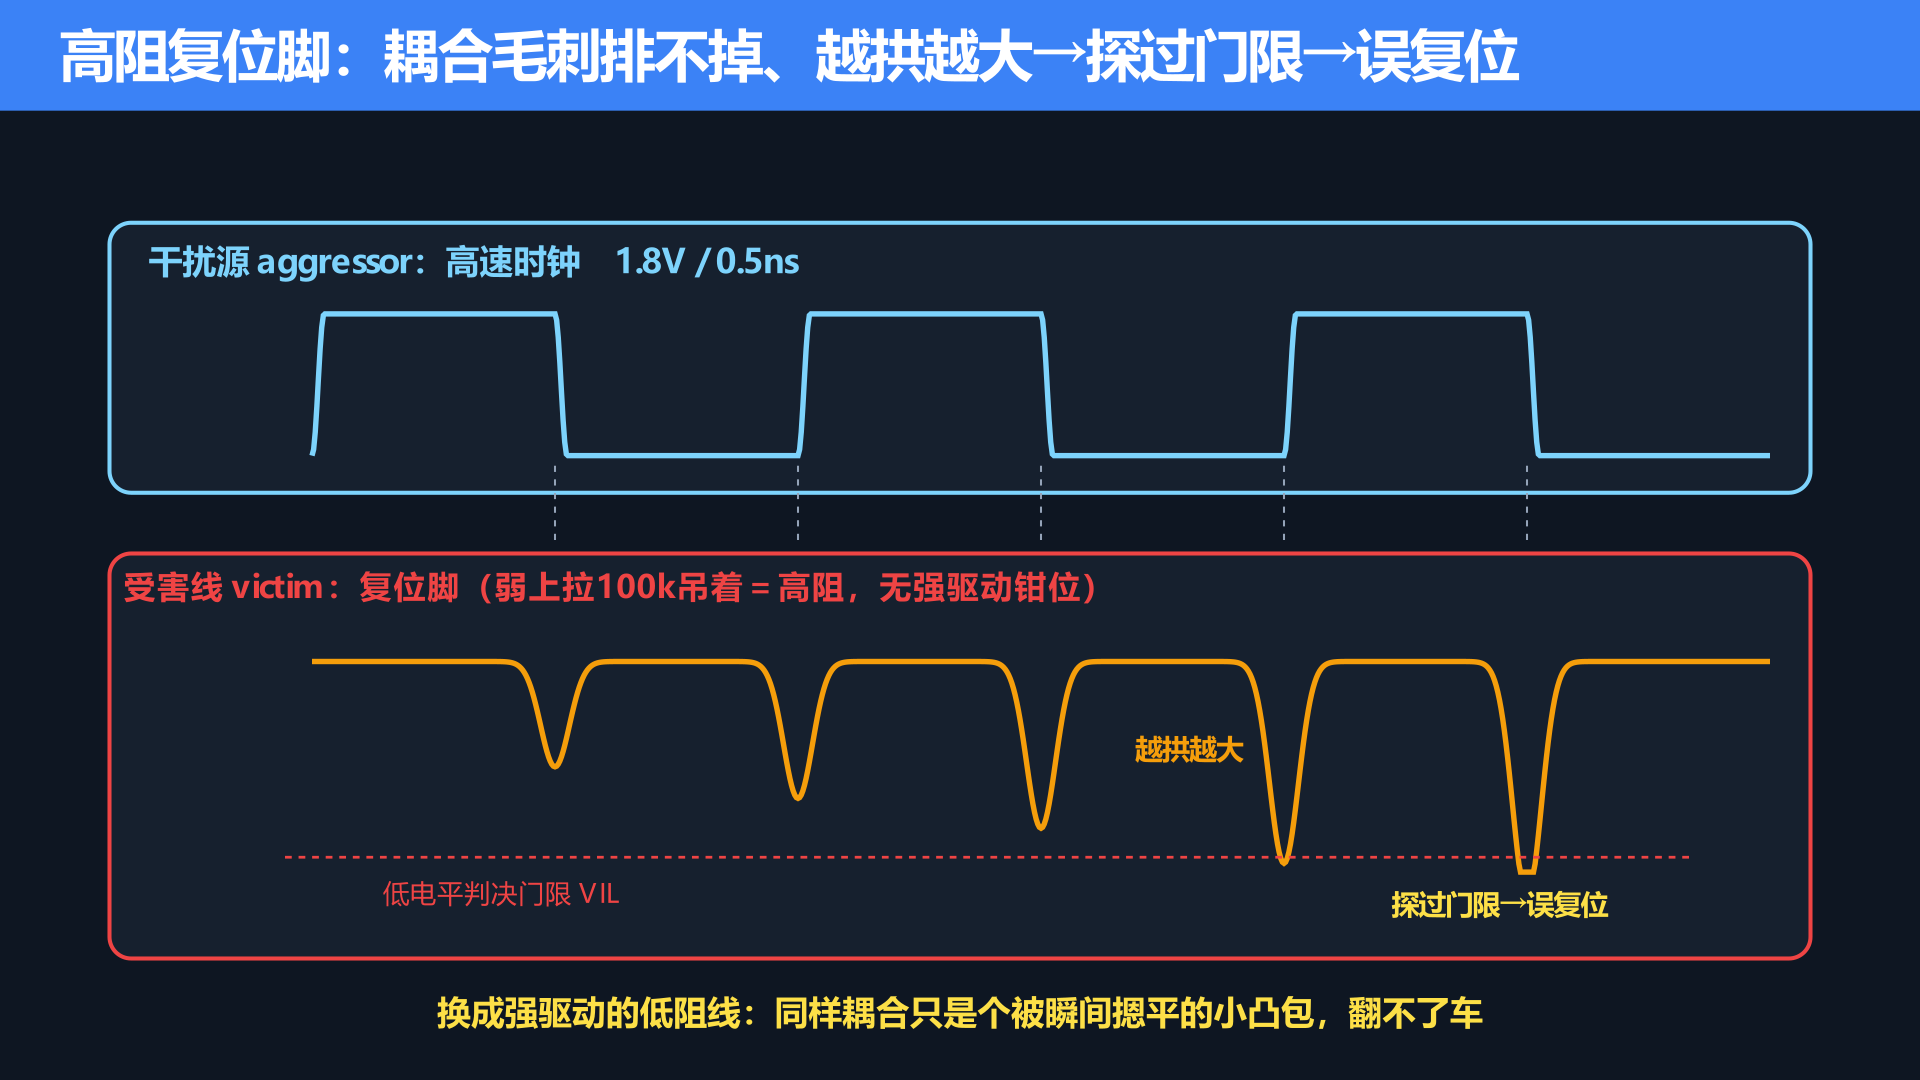
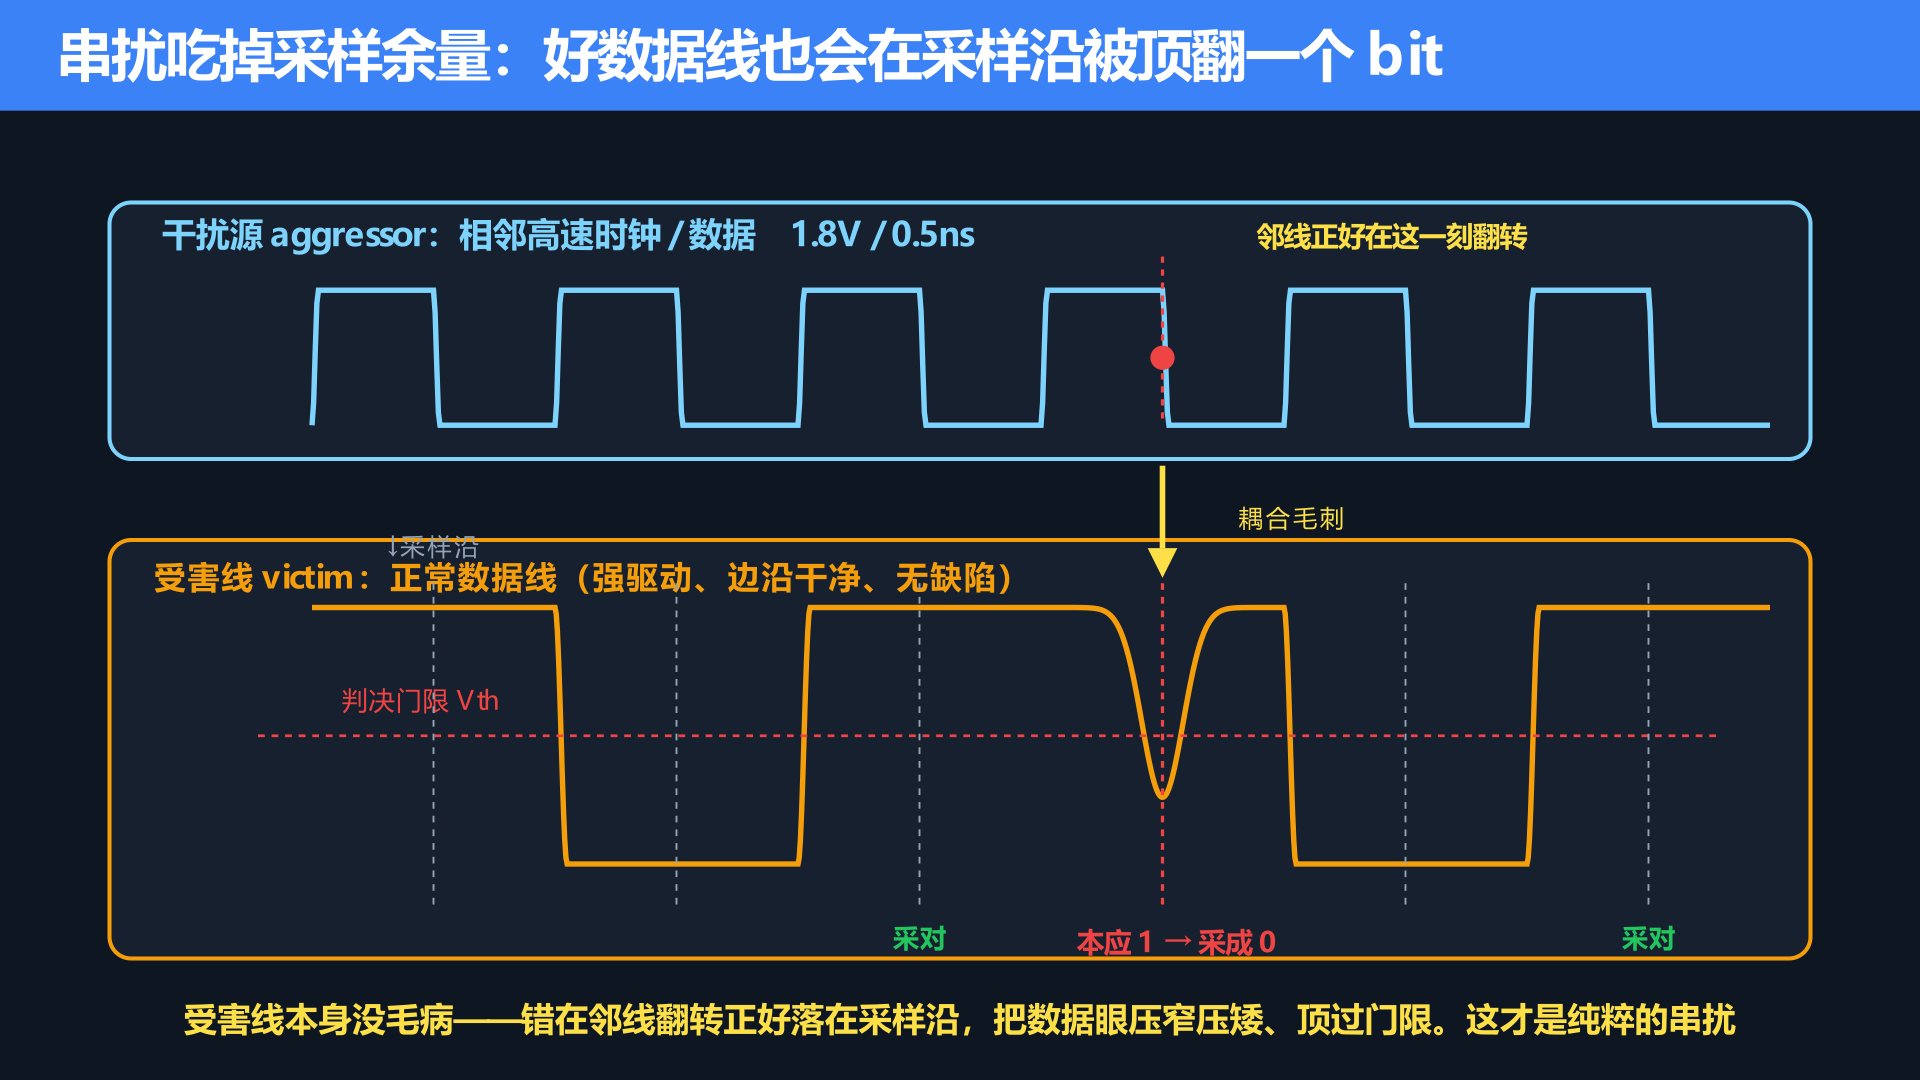
第30篇串扰：开篇例子改为纯串扰误码（正常数据线在采样沿被邻线串翻一个bit），重画图1
原例子（高阻复位脚被串扰误触发）会让读者觉得是复位线自身高阻缺陷、而非串扰问题。
改为受害线本身强驱动无缺陷、只因邻线翻转正好落在采样沿、把数据眼压窄压矮顶过门限而采错一个bit——
无需受害线有缺陷的纯串扰故障，教学上更干净、且衔接第29边沿带宽与第31眼图。

Copilot-Session: f9104e14-e017-4b16-8929-b29a5b9ca02c

diff --git a/articles/30.md b/articles/30.md
@@ -1,20 +1,20 @@
 ---
-title: 串扰 crosstalk：旁边那根线一翻转，我的静态控制线为什么突然误触发？——噪声是怎么"串"过来的
+title: 串扰 crosstalk：旁边那根线一翻转，我这条好好的高速数据线为什么偶发误码？——噪声是怎么"串"过来的
 outline: [2,3]
 ---
 
-# 串扰 crosstalk：旁边那根线一翻转，我的静态控制线为什么突然误触发？——噪声是怎么"串"过来的
+# 串扰 crosstalk：旁边那根线一翻转，我这条好好的高速数据线为什么偶发误码？——噪声是怎么"串"过来的
 
 <div class="article-meta"><span class="badge">📘 模块三 · 信号完整性 SI · 串扰 crosstalk</span><span class="badge">⏱ 约 18 分钟</span><span class="badge qr">🔧 含工程师速查</span></div>
 
 
-产线上一块板子，一条**复位信号**（平时应该老老实实待在高电平不动）**时不时被莫名其妙拉低**，板子偶发复位，几百次里蹦一次，抓都难抓。工程师先怀疑复位芯片、怀疑电源掉电、怀疑按键抖动，一路查下来，**这条复位线自己的信号干干净净、电源也稳**，找不出毛病。
+产线上一块板子，一条**高速数据线**（比如并行总线里的一位、或某个接口的数据脚）**偶发误码**：功能时好时坏，重传就过，几万个包里蹦一次错，抓都难抓。工程师先怀疑时钟、怀疑电源、怀疑接收芯片，一路查下来，**这条数据线自己的信号干干净净——边沿利落、高低电平都到位、电源也稳**，找不出毛病。
 
-最后拿示波器把复位线和它**旁边并排走了 8cm** 的一条**高速时钟线**一起抓——真相大白：**每次那条时钟线翻转（摆幅 1.8V、上升时间 0.5ns），复位线上就同步跳出一个毛刺。** 而关键的一步在这：这条复位脚**只用一个很弱的上拉电阻（比如 100kΩ）吊在高电平**，甚至上拉根本没焊——它是一个**高阻节点，没有任何强驱动去"摁住"它的电压**。正因为高阻，时钟每翻转耦合过来的那点电荷**排不掉、越拱越大**，在复位脚上叠成一个又大又拖的毛刺，**一路探到判决门限以下**；而复位芯片是个对电平/边沿很敏感的异步输入，被这一下骗到，就误判成"该复位了"。
+最后拿示波器把这条数据线和它**旁边并排走了 8cm** 的一条**高速时钟线**一起抓，还把触发对到接收端的采样时钟沿——真相大白：**每次那条时钟线翻转（摆幅 1.8V、上升时间 0.5ns），数据线上就同步跳出一个毛刺；而只有当这个毛刺恰好落在采样的那一刻、数据线自己也在跳变、时序余量最紧的那一拍，接收端才采错一个 bit。** 时钟不在采样窗口翻转时，毛刺出现在别处、采样点安然无恙，就不报错——这就是它**偶发、难抓**的根本原因。
 
-**这里要破一个常见的误解：不是"复位线判决余量太窄"——恰恰相反，1.8V 逻辑的高电平余量其实很宽**（低电平判决门限 VIL 约 0.6V，也就是说电平得从 1.8V 掉过 1.2V 才会被判成低）。**一条被强驱动、低阻输出的普通信号线，就算旁边串来同样的耦合，也只是个瞬间被驱动器摁平的小凸包，翻不了车。** 真正会中招的，恰恰是复位、片选、中断这类**平时高阻、只靠弱上拉吊着、又对毛刺敏感**的控制线——**高阻**让毛刺长得大、拖得久，**敏感**让它一有机可乘就误动作。
+**这里要说清一件事：这次受害线本身没有任何缺陷**——它是被强驱动的低阻线，边沿干净、电平到位。它之所以出错，纯粹是因为**邻线翻转的那一下，把采样点的噪声余量吃掉了**：串扰把数据线的边沿忽而推早、忽而推晚（时序抖动），又在采样点附近叠了个电压毛刺（电平余量变小）——**数据眼在采样沿被又压窄、又压矮**，赶上最紧的那一拍，采到的就是错的。**这才是串扰最本色的样子：不需要受害线有毛病，只要它跟一条高速线并排跑得够长、边沿够陡，一条好线也会被串出错来。**
 
-**复位线自己没病，病在旁边那根线，也病在它自己"高阻又没人管"。** 时钟线每一次翻转，都通过看不见的**互容和互感**，把一部分能量"串"到了复位线上——这就是**串扰**。这一篇，我们就把"串扰怎么来、怎么测、怎么压"这条链，从头捋清楚。
+**数据线自己没病，病在旁边那根线。** 时钟线每一次翻转，都通过看不见的**互容和互感**，把一部分能量"串"到了它身上——这就是**串扰**。这一篇，我们就把"串扰怎么来、怎么测、怎么压"这条链，从头捋清楚。
 
 **读完这篇，你能搞懂：**
 
@@ -42,7 +42,7 @@ outline: [2,3]
 
 （Lm 是两根线之间的**互感**。）aggressor 电流变化越快（dI/dt 越大），感应电压越强。
 
-![图1：翻车现场——复位脚只靠一个弱上拉吊在高电平（高阻节点、无强驱动钳位），旁边并排8cm的时钟线每次翻转（1.8V/0.5ns），耦合电荷在高阻脚上排不掉、拱成又大又拖的毛刺，探到判决门限以下→偶发误复位。换成强驱动的低阻线，同样耦合只是个被瞬间摁平的小凸包，翻不了车](/images/30/ill01_scene.png)
+![图1：翻车现场——受害数据线（强驱动、边沿干净、无缺陷）旁边并排8cm的时钟线每次翻转（1.8V/0.5ns），耦合毛刺叠在数据线上；当毛刺恰好落在接收端采样时钟沿、数据眼被压窄压矮、顶过判决门限，就采错1个bit→偶发误码。时钟不在采样窗口翻转时采样点安然无恙，故偶发难抓](/images/30/ill01_scene.png)
 
 **两条通道的共同点：都靠"变化"耦合。** dV/dt、dI/dt——**变化率越大，串扰越凶**。这也解释了为什么串扰是**高速信号**的专属麻烦：边沿越陡（还记得上一篇吗？陡边沿 = 高频），dV/dt、dI/dt 越大，串扰越强。一条慢悠悠的信号，几乎不惹串扰。
 
@@ -84,7 +84,7 @@ outline: [2,3]
 
 **相邻信号线的中心间距 ≥ 3 倍线宽（即边到边间距 ≥ 2 倍线宽），串扰能压到很低（典型 <3%）。**
 
-开头那块板子栽就栽在这：复位线和时钟线**等线宽、等间距贴着走（相当于 1W）**，NEXT 耦合系数高达约 **12%**。**注意：这 12% 是耦合到受害线上的比例**——若受害线是强驱动的低阻线，这点耦合被驱动器瞬间摁平、只是个小凸包；可复位线偏偏是**弱上拉的高阻节点**，没有强驱动钳位，耦合电荷排不掉、在脚上拱成又大又拖的毛刺，**才有机会探过门限**。**拉开到 3W 间距后，耦合系数降到约 2%**，毛刺大幅缩小、稳稳退回门限余量以内，误复位就消失了。
+开头那块板子栽就栽在这：数据线和时钟线**等线宽、等间距贴着走（相当于 1W）**，NEXT 耦合系数高达约 **12%**。**注意：这 12% 是耦合到受害线上的比例**——12% 的噪声叠在采样点上，正好把本就不宽的数据眼吃穿，赶上时序最紧那一拍就采错。**拉开到 3W 间距后，耦合系数降到约 2%**，采样点的噪声余量一下宽裕起来，偶发误码就消失了。
 
 下面这张动图把"拉间距"的效果看得最直观：aggressor 时钟保持不变，只把间距从 1W 一点点拉到 3W，victim 上的串扰尖峰肉眼可见地迅速变矮——从约 12% 一路掉到约 2%，稳稳退回门限余量以内。**间距，就是串扰这道题里那颗最好使的旋钮。**
 
@@ -134,11 +134,11 @@ outline: [2,3]
 
 **第五招，放缓边沿 + 走差分。** 在满足时序的前提下适当放缓 aggressor 的边沿（串小电阻等），dV/dt、dI/dt 一小，串扰跟着小；关键高速链路走**差分**（差分对内紧耦合、对外的串扰大部分成了共模被抑制），并优先走**内层带状线**（远端串扰 ≈0）。
 
-**还有一招专治"高阻受害线"（就是开头那种）：降低节点阻抗。** 复位、片选、中断这类脚，别用太弱的上拉——**换成小阻值的强上拉、或把漏焊的上拉补上**，让耦合电荷有地方快速泄掉、把毛刺摁下去；必要时在脚上**加一颗小电容做 RC 滤波**，把又快又窄的串扰毛刺滤钝（注意电容别太大，免得拖慢复位/中断的正常响应）。**根子上，是别让敏感控制线处在"高阻又没人管"的状态**——这一招和前面的拉间距、加护地线配合，才是治开头那类误复位的完整拳法。
+**还有一招，专治另一类特别怕串扰的"高阻受害线"：降低节点阻抗。** 复位、片选、中断这类平时高阻、只靠弱上拉吊着的脚，本身就格外容易被串扰的毛刺顶翻——别用太弱的上拉，**换成小阻值的强上拉、或把漏焊的上拉补上**，让耦合电荷有地方快速泄掉、把毛刺摁下去；必要时在脚上**加一颗小电容做 RC 滤波**，把又快又窄的串扰毛刺滤钝（注意电容别太大，免得拖慢复位/中断的正常响应）。**根子上，是别让敏感控制线处在"高阻又没人管"的状态**——这一招和前面的拉间距、加护地线配合使用。
 
 ![图6：压串扰五招。①3W间距（最有效）②缩短平行段/错开换层③护地线guard trace+两端及中间密打地过孔（必须接地否则帮倒忙）④参考平面完整+换层打回流过孔⑤放缓边沿+走差分/内层带状线。左"布线设计"三分之七、右"事后补救"三分之三](/images/30/ill06_fix.png)
 
-**一个完整的排查动作**，把前面串成流程：**① 现象**——某条静态/低速线偶发误动作，信号自己却是干净的；**② 双通道抓**——victim 尖峰对齐哪条 aggressor 的边沿，锁定干扰源；**③ 看近远端**——判断是 NEXT 还是 FEXT、容性还是感性为主；**④ 对旋钮**——查这两根线的间距、平行长度、边沿、参考平面哪个出了问题；**⑤ 改版图**——拉间距 / 加护地线 / 补地平面 / 放缓边沿，复测确认尖峰降到门限余量以内。
+**一个完整的排查动作**，把前面串成流程：**① 现象**——某条线偶发误码或误动作，信号自己却是干净的；**② 双通道抓**——victim 尖峰对齐哪条 aggressor 的边沿，锁定干扰源；**③ 看近远端**——判断是 NEXT 还是 FEXT、容性还是感性为主；**④ 对旋钮**——查这两根线的间距、平行长度、边沿、参考平面哪个出了问题；**⑤ 改版图**——拉间距 / 加护地线 / 补地平面 / 放缓边沿，复测确认尖峰降到门限余量以内。
 
 ![图7：本篇速查卡。核心机理I=Cm·dV/dt、V=Lm·dI/dt；NEXT vs FEXT对比（方向/宽度/饱和/叠层）；四旋钮（间距/长度/边沿/参考面）；抑制五招（3W/缩短/护地线/完整地/放缓边沿差分）；常见坑（护地线悬空/带宽不够低估/跨分割/只查victim自己）](/images/30/ill07_quickref.png)
 